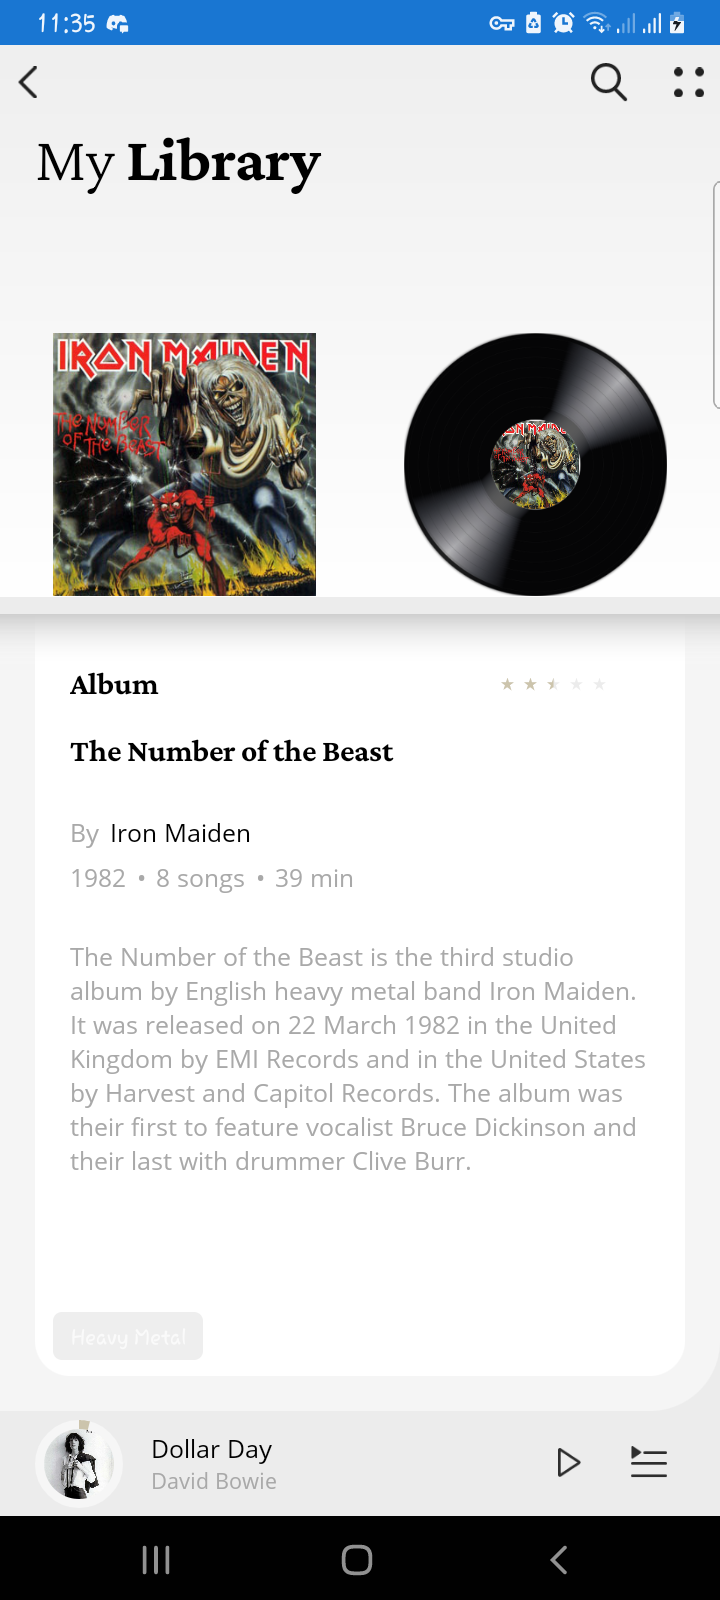
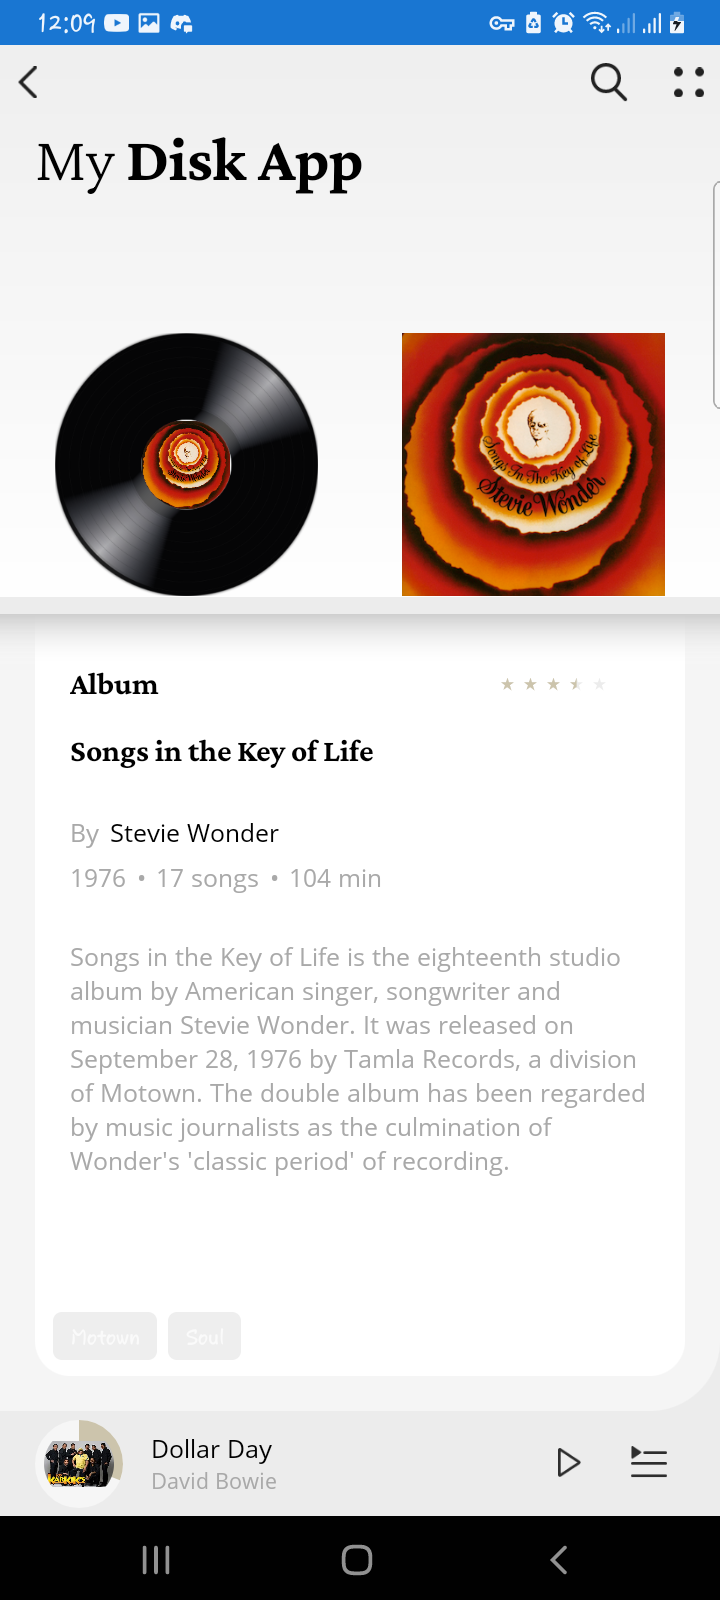
add resources

diff --git a/MusicPlayer/MusicPlayerVinyls/MainPage.xaml b/MusicPlayer/MusicPlayerVinyls/MainPage.xaml
@@ -43,25 +43,14 @@
                 Grid.Column="1"
                 Margin="0,0,20,0"
                 Source="Search" />
-            <Image
-                Grid.Column="2"
-                HorizontalOptions="Start"
-                Source="Collection" />
 
         </Grid>
-
-
-        <!--  header  -->
-        <!--<StackLayout Grid.Row="1" Orientation="Horizontal">
-            <Label Style="{StaticResource LightH1}" Text="My" />
-            <Label Style="{StaticResource BoldH1}" Text="Library" />
-        </StackLayout>-->
 
         <Label Grid.Row="1" Margin="20,0,0,0">
             <Label.FormattedText>
                 <FormattedString>
                     <Span Style="{StaticResource LightH1}" Text="My " />
-                    <Span Style="{StaticResource BoldH1}" Text="Library" />
+                    <Span Style="{StaticResource BoldH1}" Text="Disk App" />
                 </FormattedString>
             </Label.FormattedText>
         </Label>

diff --git a/MusicPlayer/MusicPlayerVinyls/Controls/CircularProgress.cs b/MusicPlayer/MusicPlayerVinyls/Controls/CircularProgress.cs
@@ -34,7 +34,6 @@ namespace MusicPlayerVinyls.Controls
             this.PaintSurface += CircularProgress_PaintSurface;
         }
 
-
         public static readonly BindableProperty ValueProperty = BindableProperty.Create(
                                         propertyName: nameof(Value),
                                         returnType: typeof(float),
@@ -71,9 +70,6 @@ namespace MusicPlayerVinyls.Controls
             get { return (float)GetValue(StrokeWidthProperty); }
             set { SetValue(StrokeWidthProperty, value); }
         }
-
-
-
 
         private void CircularProgress_PaintSurface(object sender, SKPaintSurfaceEventArgs e)
         {

diff --git a/MusicPlayer/MusicPlayerVinyls/Controls/Rating.cs b/MusicPlayer/MusicPlayerVinyls/Controls/Rating.cs
@@ -115,7 +115,6 @@ namespace MusicPlayerVinyls.Controls
         }
 
         
-
         private void DrawItems(SKCanvas canvas, SKImageInfo info, SKPaint paint)
         {
             // calculate the size of an indidual item (considering spacing)
